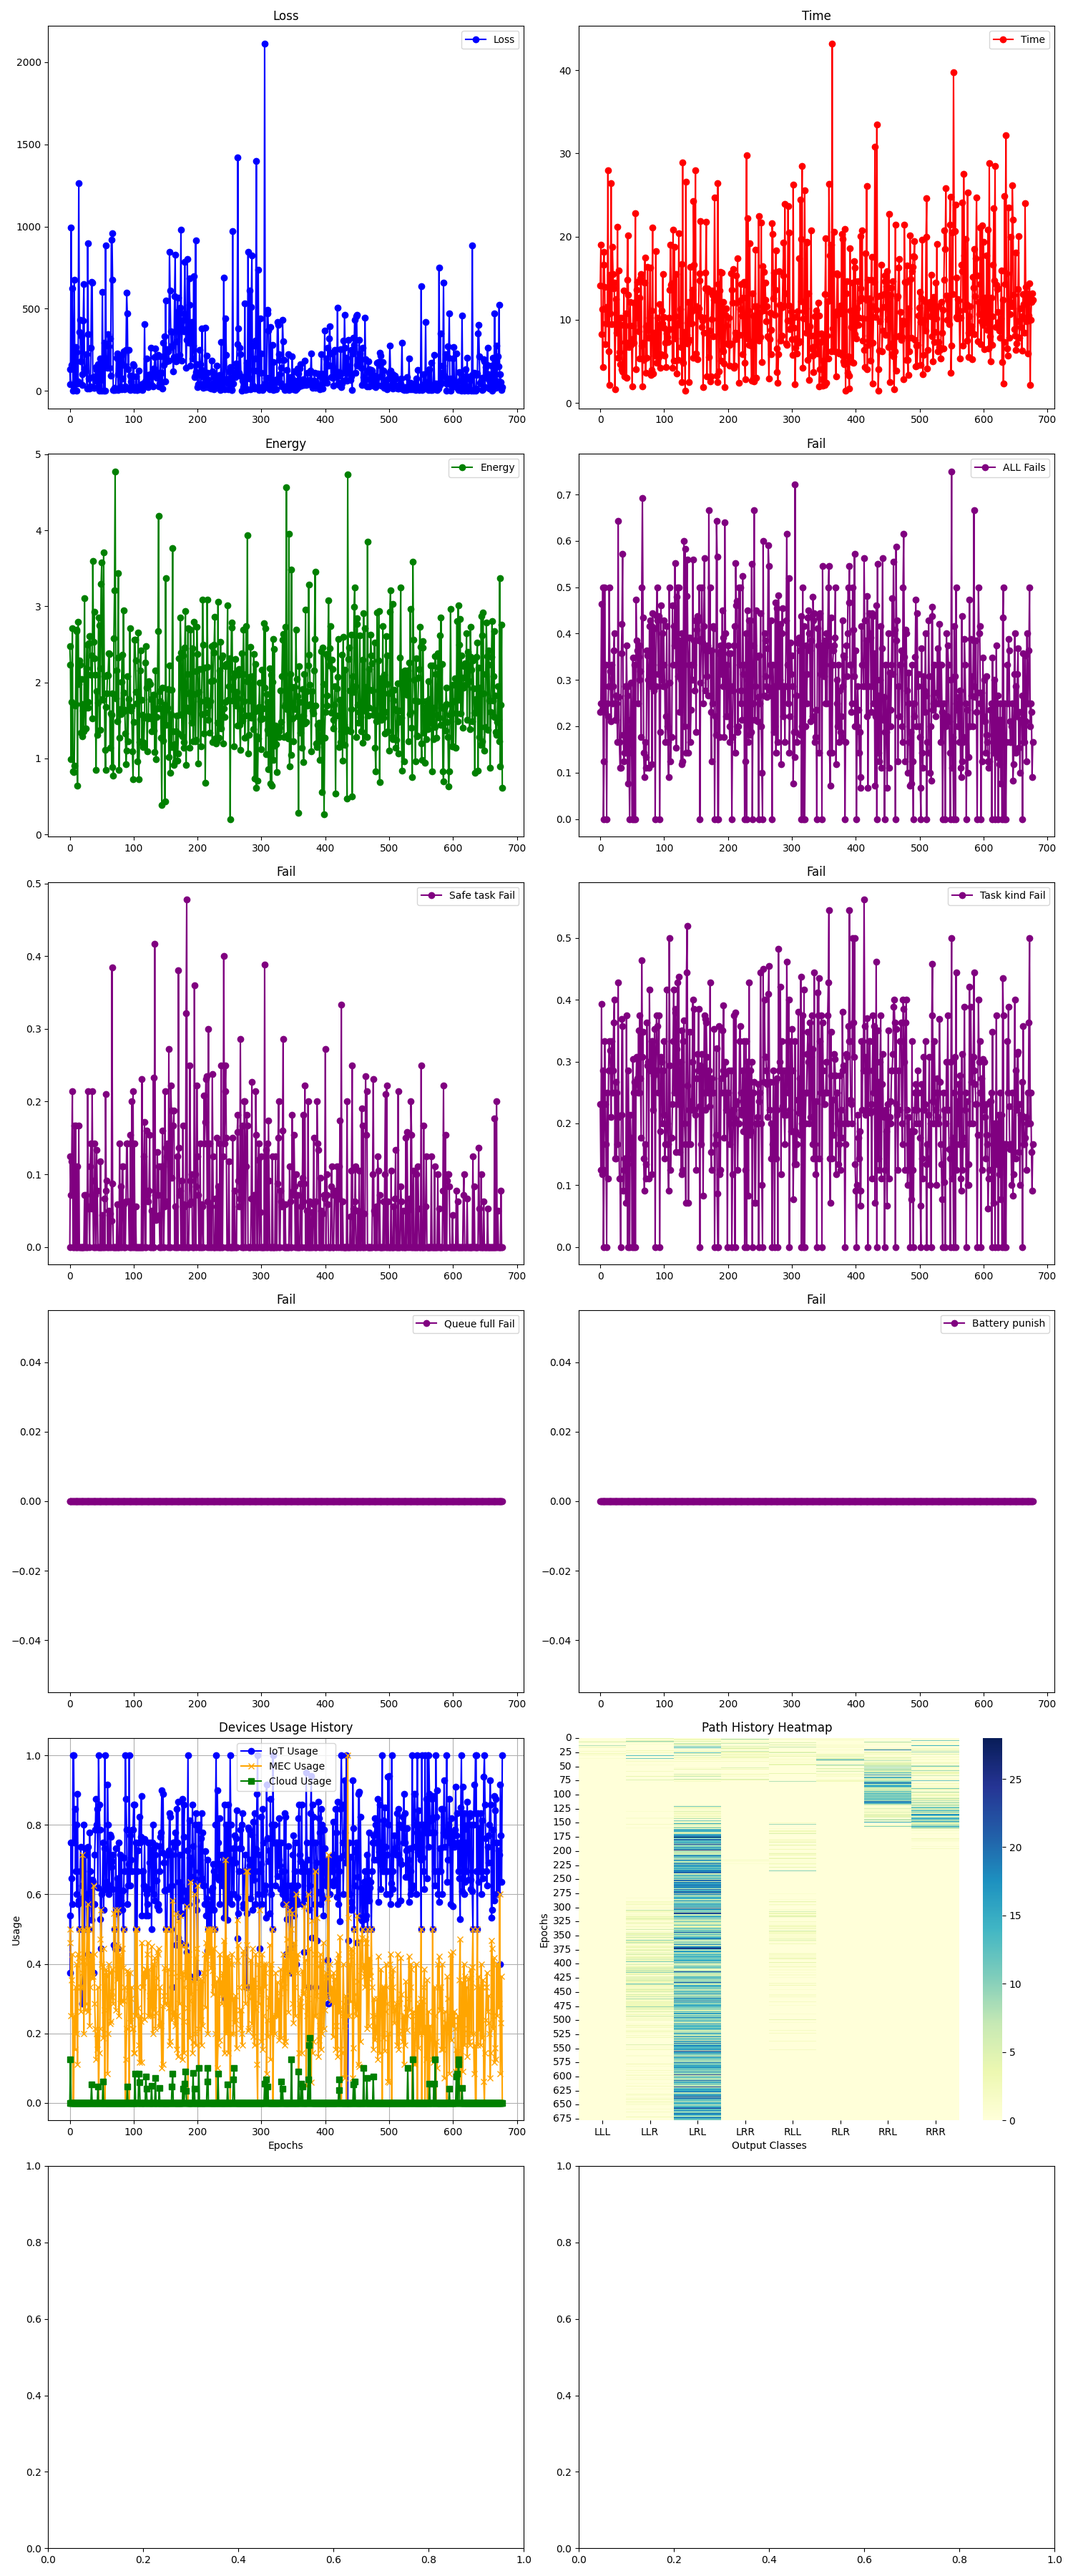
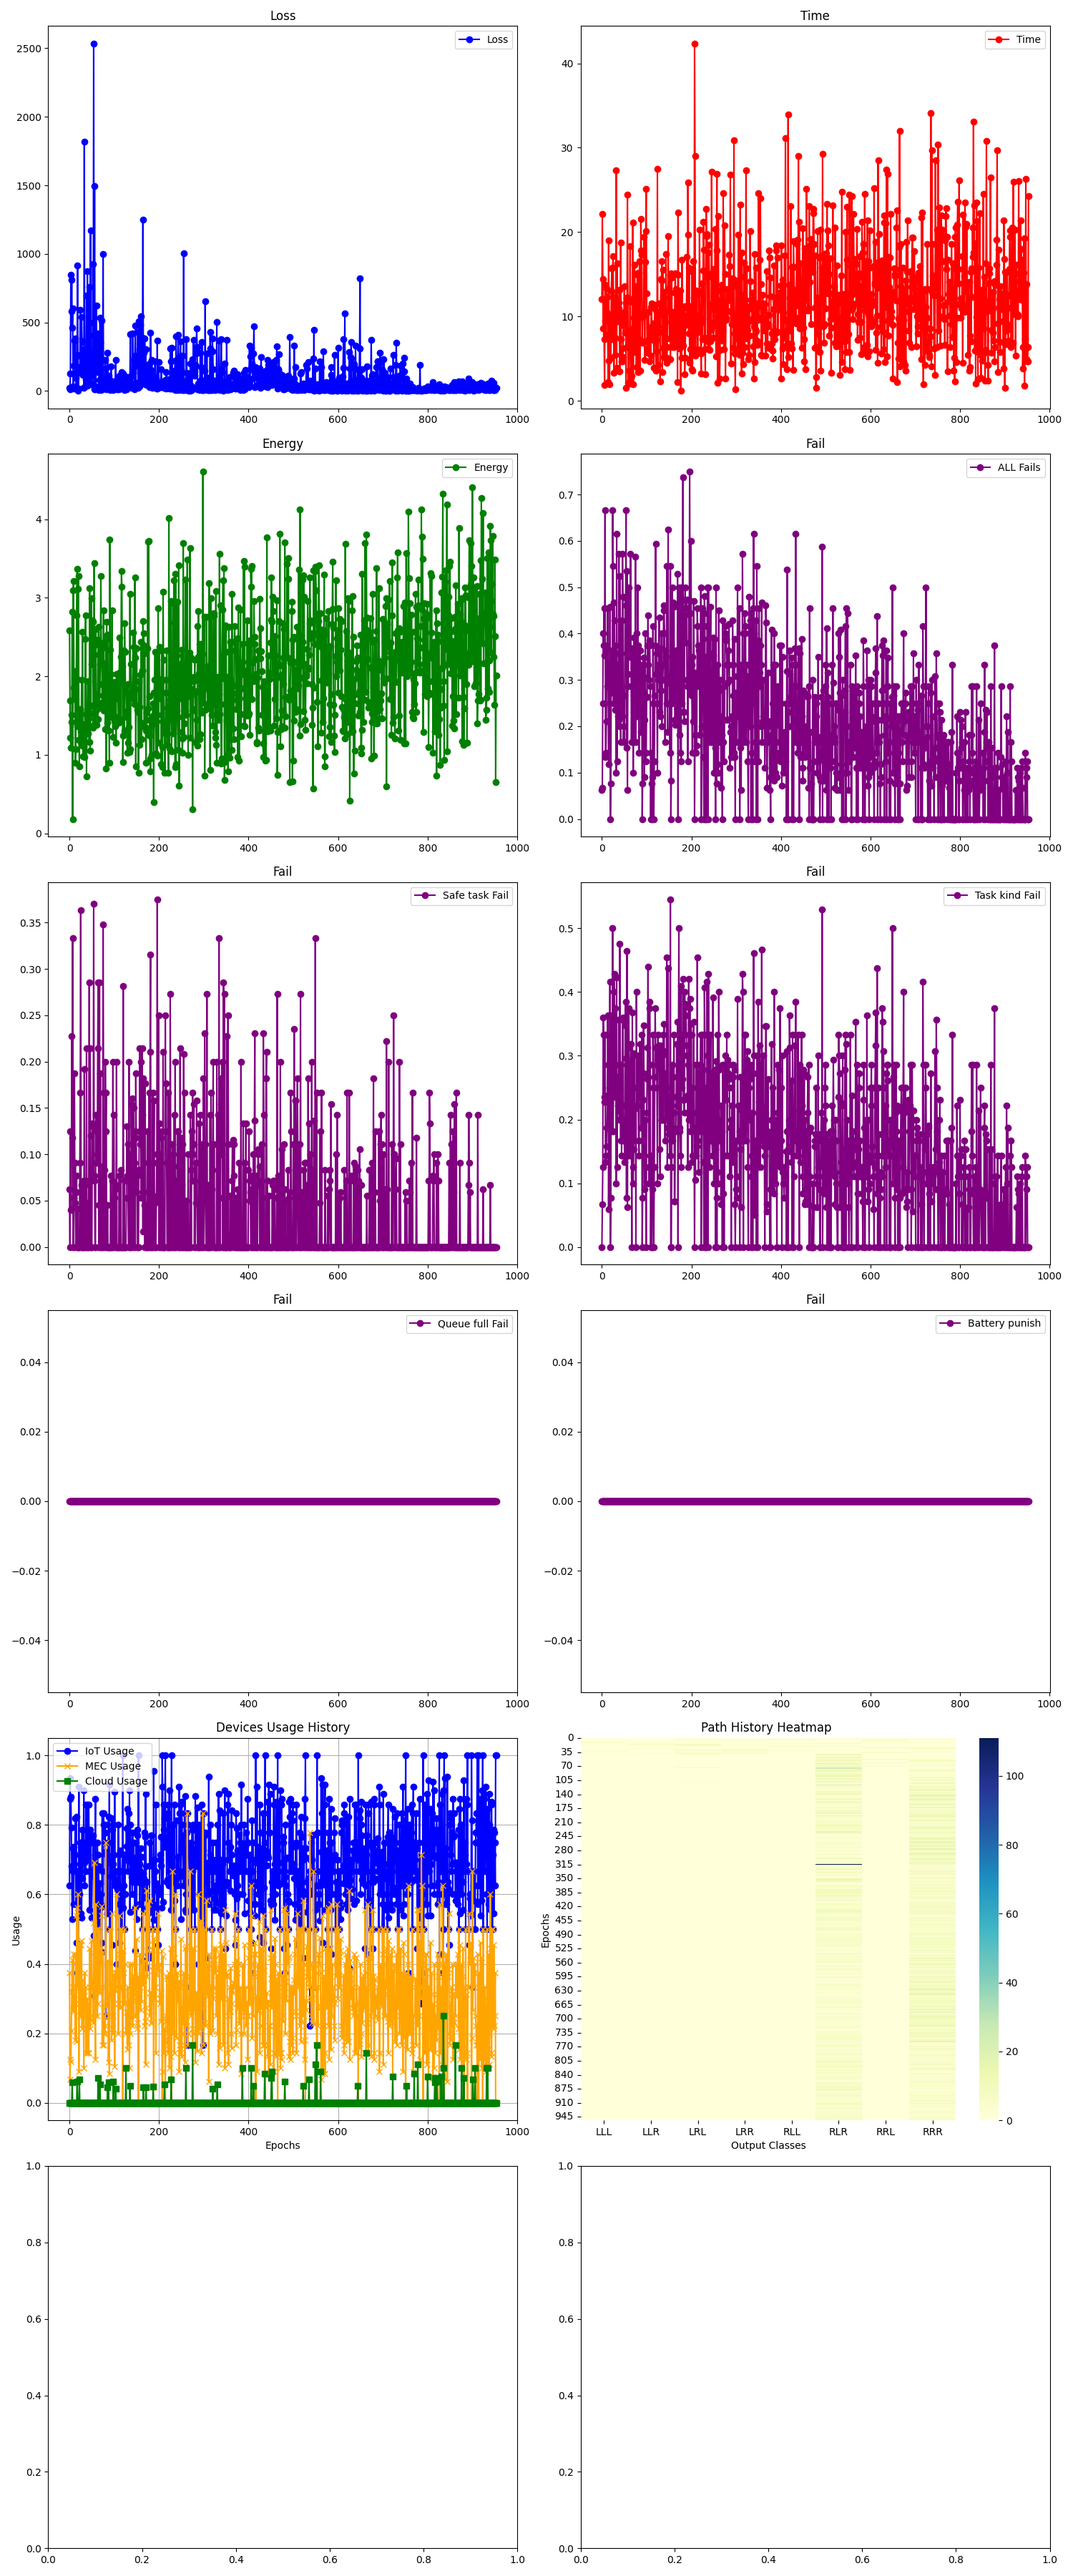
scalability implemented

diff --git a/environment/env.py b/environment/env.py
@@ -36,7 +36,6 @@ class Environment:
 
         self.display = environment_config['display']
         self.time_log = []
-        self.stablized = False
         print("Envionment initialized ")
         
         
@@ -70,7 +69,7 @@ class Environment:
         try:
             print("Simulation starting...")
             while True:
-                if self.stablized and learning_config['scalability']:
+                if learning_config['scalability']:
                    if np.random.random() < learning_config['add_device_iterations']:
                        self.add_device()
                    if np.random.random() < learning_config['remove_device_iterations']:
@@ -86,13 +85,7 @@ class Environment:
                 self.check_dead_iot_devices()
                 self.state.update(self.manager)
                 self.barrier.wait()
-                # print("ITERATION " ,iteration,time.time()-starting_time)
                 
-                if not self.stablized and iteration > 500:
-                    # recent_fails = [log.get('fails', 1) for log in list(self.state.agent_log.values())[-1000:]]
-                    # if all(x <= 0.2 for x in recent_fails):
-                    print("STABILIZED")
-                    self.stablized = True
                 
                 iteration += 1
                 time_len = time.time() - starting_time
@@ -141,10 +134,20 @@ class Environment:
             return
         
         if device_index is None:
-            # Random selection weighted by inverse usage
-            weights = [1/(sum(usage)+1) for usage in self.state.device_usage]
-            device_index = np.random.choice(range(len(self.devices)), p=weights/np.sum(weights))
-            
+            adjusted_usage = self.state.device_usage
+            if len(self.state.device_usage) < len(self.devices):
+                adjusted_usage = self.state.device_usage + [[0]] * (len(self.devices) - len(self.state.device_usage))
+            elif len(self.state.device_usage) > len(self.devices):
+                adjusted_usage = self.state.device_usage[:len(self.devices)]
+                
+            # Calculate weights as inverse usage, avoid division by zero
+            usage_sums = [sum(usage) for usage in adjusted_usage]
+            weights = [1 / (usage_sum + 1) for usage_sum in usage_sums]  # Adding 1 to avoid zero division
+            weights = np.array(weights) / np.sum(weights)  # Normalize to sum to 1
+
+            # Select device index based on weights
+            device_index = np.random.choice(range(len(self.devices)), p=weights)
+
             
         if self.devices[device_index]['type'] == 'cloud':
             return
@@ -162,7 +165,6 @@ class Environment:
             worker.local_actor_critic.remove_device(device_index)
             worker.remove_device(device_index)
             
-        # Wait for all processes to finish updating
    
     def check_dead_iot_devices(self):
         """Remove IoT devices with depleted batteries."""

diff --git a/environment/state.py b/environment/state.py
@@ -71,16 +71,16 @@ class State:
         except:
             return
     
-    def apply_action(self, pe_ID, core_i, freq, volt, task_ID, utilization=None, diversity=None, gin=None):
+    def apply_action(self, pe_ID, core_i, freq, volt, task_ID, utilization=None, diversity=None, gin=None,failed=False):
         try:
             pe_dict = self.PEs[pe_ID]
             pe = self.db_devices[pe_ID]
             task = self.db_tasks[task_ID]
-            if task["job_id"] not in self.jobs.keys():
-                return 0, [0,0,0,0], 0, 0
             job_dict = self.jobs[task["job_id"]]
         except:
-            return self.apply_action(pe_ID, core_i, freq, volt, task_ID, utilization, diversity, gin)
+            if failed:
+                return 0, [0,0,0,0], 0, 0
+            return self.apply_action(pe_ID, core_i, freq, volt, task_ID, utilization, diversity, gin,True)
 
         with self.lock:
             # OPTIMIZATION: Calculate totals before lock
@@ -107,10 +107,10 @@ class State:
             job_dict["runningTasks"].append(task_ID)
             try:
                 job_dict["remainingTasks"].remove(task_ID)
+                self.preprocessor.queue.remove(task_ID)
             except:
                 pass
 
-            self.preprocessor.queue.remove(task_ID)
 
         self.update_device_usage(pe_ID)
         
@@ -158,8 +158,6 @@ class State:
                 new_pe = {
                     "type": new_device["type"],
                     "batteryLevel": 100.0,
-                    "occupiedCores": manager.list([0 for _ in range(new_device["num_cores"])]),
-                    "energyConsumption": manager.list([new_device["powerIdle"] for _ in range(new_device["num_cores"])]),
                     "queue": manager.list(
                         [manager.list([(0, -1) for _ in range(new_device["maxQueue"])])
                          for _ in range(new_device["num_cores"])])

diff --git a/model/trees/DDT.py b/model/trees/DDT.py
@@ -42,9 +42,9 @@ class DDT(nn.Module):
         if depth == max_depth:
             self.prob_dist = nn.Parameter(torch.ones(num_output))
             self.logit_regressor = nn.Sequential(
-                nn.Linear(learning_config['pe_num_features'], 256),
+                nn.Linear(learning_config['pe_num_features'], 64),
                 nn.Sigmoid(),
-                nn.Linear(256, 1),
+                nn.Linear(64, 1),
             )
             self.logit_optimizer = optim.Adam(self.logit_regressor.parameters(), lr=0.01)
         if depth < max_depth:
@@ -113,7 +113,7 @@ class DDT(nn.Module):
             new_device_dist = self.logit_regressor(device_tensor)
 
             avg_logit = sum(self.prob_dist) / len(self.prob_dist)
-            print(f"{len(avg_logit)} Avg Logit: {avg_logit:.4f}, Predicted Logit: {new_device_dist,}")
+            print(f"Avg Logit: {avg_logit:.4f}, Predicted Logit: {new_device_dist,}")
 
             self.prob_dist = nn.Parameter(torch.cat((self.prob_dist, new_device_dist)))
         else:

diff --git a/configs.py b/configs.py
@@ -140,8 +140,8 @@ learning_config = {
     "discount_factor": 0.99,  # 0: reward , 0.99:return
 
     'scalability': True,
-    'add_device_iterations': 0.001,  # Probability of adding device each iteration
-    'remove_device_iterations': 0.001,  
+    'add_device_iterations': 0.01,  # Probability of adding device each iteration
+    'remove_device_iterations': 0.01,  
 
     "utilization": False,
     "alpha_diversity": 1,

diff --git a/model/agent.py b/model/agent.py
@@ -108,7 +108,6 @@ class Agent(mp.Process):
         
     def schedule(self, current_task_id,gin=None,diversity=None,utilization=None):
             # retrieve the necessary data
-        pe_state = self.state.PEs
         current_task = self.state.db_tasks[current_task_id]
         input_state = self.util.get_input(current_task,gin=None,diversity=None)
 
